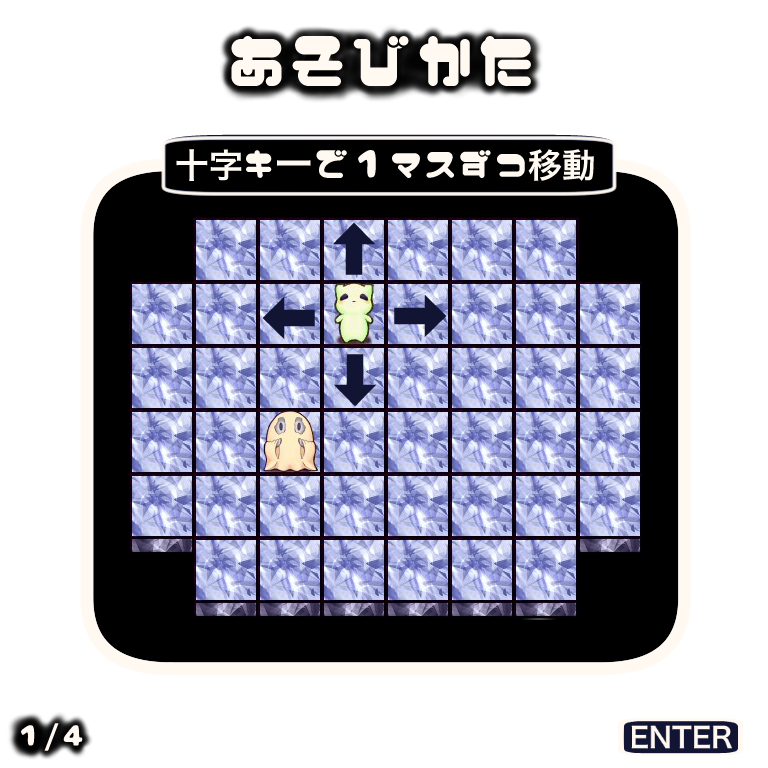
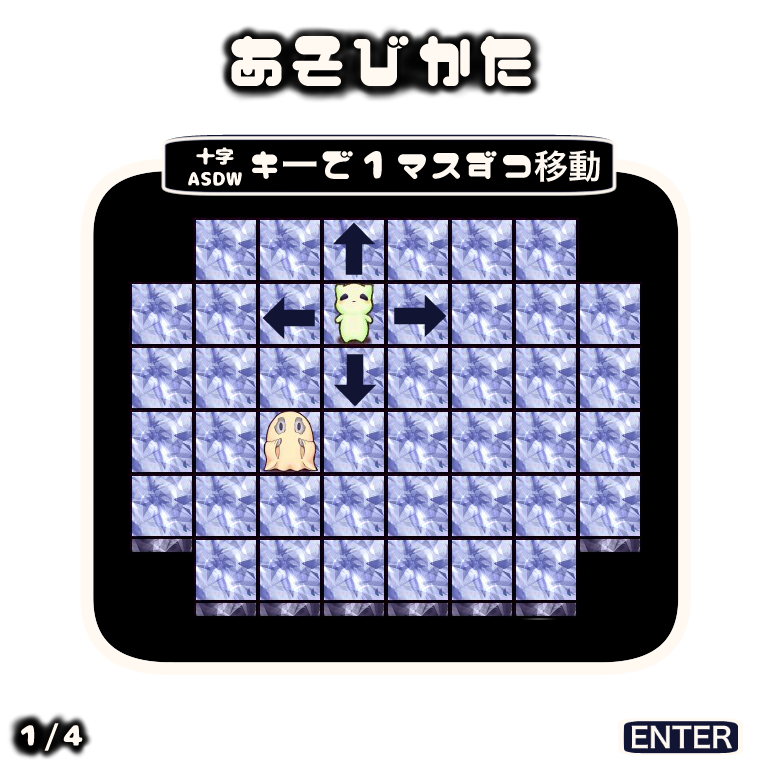
dir

Changed region(s): [[0.2188, 0.1875, 0.7812, 0.25]]

diff --git a/TemplateGame/DirUI.cs b/TemplateGame/DirUI.cs
@@ -12,72 +12,125 @@ namespace LoopGame
 
         Texture2D dirUi;
         Vector2[] pos;
-        float[] rot;
+        int[] rot;
         const int SIZE = 192;
-        const int C_SIZE = SIZE / 2;
 
         enum KeyNum
         {
             Up = 1, Right, Down, Left,
         }
 
+
         public void Init(int all)
         {
             pos = new Vector2[all];
-            rot = new float[all];
+            rot = new int[all];
         }
         public void Load(ContentManager cm)
         {
             dirUi = cm.Load<Texture2D>("dir");
         }
 
-        public void DirChenge(int pdn, List<int> Edn, bool dirF)
+        //プレイヤー
+        public void DirChecgeP(bool dirF, int pdn)
         {
-            int dn = 0;
-            for (int i = 0; i < rot.Length; i++)
+            if (!dirF) //オフの時
             {
-                if (!dirF & i == 0) //オフの時
-                {
-                    rot[i]= MathHelper.ToRadians(0);
-                    continue;
-                }
-
-                if (i == 0) dn = pdn; //オンの時
-                else dn = Edn[i - 1];
-
-                switch (dn)
+                rot[0] = 0; //プレイヤー
+            }
+            else//オンの時
+            {
+                switch (pdn)
                 {
                     case (int)KeyNum.Up:
-                        rot[i] = MathHelper.ToRadians(0);
+                        rot[0] = 0;
                         break;
                     case (int)KeyNum.Right:
-                        rot[i] = MathHelper.ToRadians(90);
+                        rot[0] = 1;
                         break;
                     case (int)KeyNum.Down:
-                        rot[i] = MathHelper.ToRadians(180);
+                        rot[0] = 2;
                         break;
                     case (int)KeyNum.Left:
-                        rot[i] = MathHelper.ToRadians(270);
+                        rot[0] = 3;
                         break;
+                }
+            }
+        }
+
+        //エネミー
+        public void DirChengeE(int pdn, List<int> Edn, bool dirF, int dirMin, int dirMax, int allDirCount)
+        {
+            for (int i = 1; i < rot.Length; i++)
+            {
+                int edn = Edn[i - 1];
+
+                if (!dirF) //オフの時
+                {
+
+                    //if (i == 0)
+                    //{
+                    //    rot[i] = 0; //プレイヤー
+                    //    continue;
+                    //}
+
+                    switch (pdn)
+                    {
+
+                        case (int)KeyNum.Up:
+                            rot[i] = edn + 0;
+                            break;
+                        case (int)KeyNum.Right:
+                            rot[i] = edn + 3;
+                            break;
+                        case (int)KeyNum.Down:
+                            rot[i] = edn + 2;
+                            break;
+                        case (int)KeyNum.Left:
+                            rot[i] = edn + 1;
+                            break;
+                    }
+
+                    if (rot[i] > dirMax) rot[i] -= allDirCount;
+                    rot[i]--;
+                }
+                else//オンの時
+                {
+                    switch (edn)
+                    {
+                        case (int)KeyNum.Up:
+                            rot[i] = 0;
+                            break;
+                        case (int)KeyNum.Right:
+                            rot[i] = 1;
+                            break;
+                        case (int)KeyNum.Down:
+                            rot[i] = 2;
+                            break;
+                        case (int)KeyNum.Left:
+                            rot[i] = 3;
+                            break;
+                    }
                 }
             }
         }
         public void CenterPos(Vector2 pp, Vector2[] ep, int s)
         {
-            pos[0] = new Vector2(pp.X + s / 2, pp.Y + s / 2);
+            pos[0] = new Vector2(pp.X - s, pp.Y - s);
             for (int i = 1; i < pos.Length; i++)
             {
-                pos[i] = new Vector2(ep[i - 1].X + s / 2, ep[i - 1].Y + s / 2);
+                pos[i] = new Vector2(ep[i - 1].X - s, ep[i - 1].Y - s);
             }
         }
 
-        public void Draw(SpriteBatch sb, bool df)
+        public void Draw(SpriteBatch sb, bool df,bool[] enemyDead)
         {
             if (!df) return;
-            sb.Draw(dirUi, pos[0], null, Color.White, rot[0], new Vector2(C_SIZE, C_SIZE), Vector2.One, SpriteEffects.None, 0);
-            for (int i = 1; i < pos.Length; i++)
+            sb.Draw(dirUi, pos[0], new Rectangle(SIZE * rot[0], 0, SIZE, SIZE), Color.White);
+            for (int i = 1; i < pos.Length; i++) //敵
             {
-                sb.Draw(dirUi, pos[i], null, Color.White * 0.5f, rot[i], new Vector2(C_SIZE, C_SIZE), Vector2.One, SpriteEffects.None, 0);
+                if(!enemyDead[i-1])
+                sb.Draw(dirUi, pos[i], new Rectangle(SIZE * rot[i], 0, SIZE, SIZE), Color.White * 0.5f);
             }
         }
     }

diff --git a/TemplateGame/Game1.cs b/TemplateGame/Game1.cs
@@ -83,6 +83,8 @@ namespace LoopGame
         {
             stage = (int)Stage.stage1;
             scene = Scene.TITLE;
+            titleAndEnd.Init();
+            edA.Ini(SIZE);
         }
         //どこからの初期化でも変わらない
         void StageInitBase()
@@ -92,7 +94,6 @@ namespace LoopGame
             enemy.Init(map.NowEnemySheet, map.SheetSize, EnemyDeadSE);
             start.Ini(player.Pos.X, player.Pos.Y, map.StageCount, (int)stage);
             clear.Ini();
-            edA.Ini(SIZE);
             help.Init(music.Se[(int)SE.ENTER]);
             wait.Init();
             score.Init((int)stage);
@@ -108,6 +109,7 @@ namespace LoopGame
             StageInitBase();
             start.PosChange(SIZE);
             scene = Scene.PLAY_START;
+            dirUI.DirChengeE(player.DirNum, enemy.DirNum, help.KeyFix, map.DirMin, map.DirMax, map.AllDirCount);
             if (stage == map.StageCount - 1)
                 music.SongStopper();
         }
@@ -253,18 +255,18 @@ namespace LoopGame
                     if (help.NowHelpState == 0)
                         player.Move(map.NowPlayerSheet, map.SheetSize, map.AllDirCount, help.KeyFix);
                     if (player.MoveF) music.SePlay((int)SE.WALK);
-
+                    dirUI.DirChecgeP(help.KeyFix, player.DirNum);
                 }
                 if (wait.WaitCount(player.MoveF)) //敵のターン
                 {
                     enemy.Move(player.BeforeDir, player.DirNum, map.SheetSize);
+                    dirUI.DirChengeE(player.DirNum, enemy.DirNum, help.KeyFix, map.DirMin, map.DirMax, map.AllDirCount);
                     music.SePlay((int)SE.ENEMYWALK);
                     score.Pluse();
                 }
             }
             //方向表示
             dirUI.CenterPos(player.Pos, enemy.Pos, player.Size);
-            dirUI.DirChenge(player.DirNum, enemy.DirNum, help.KeyFix);
 
             if (enemy.DeadAction(map.NowMapSheet, map.NowPlayerSheet)) //敵が全部死んだら
             {
@@ -288,7 +290,7 @@ namespace LoopGame
         //ヘルプ
         void HelpInput()
         {
-            help.HelpOpen(GoTitle, HelpFlagChenge);
+            help.HelpOpen(GoTitle, HelpFlagChenge,EnemyUIChecnge);
             if (tu.OpenHelopTuto) HelpTuto();
         }
         void HelpFlagChenge()
@@ -304,6 +306,10 @@ namespace LoopGame
                 tu.OpenHelopTuto = false;
                 help.TotuEnd();
             }
+        }
+        void EnemyUIChecnge()
+        {
+            dirUI.DirChengeE(player.DirNum, enemy.DirNum, help.KeyFix, map.DirMin, map.DirMax, map.AllDirCount);
         }
         void GoTitle()
         {
@@ -406,18 +412,18 @@ namespace LoopGame
         }
         void DrawStart()
         {
-            titleAndEnd.StartDrow(spriteBatch,edA.Sc);
+            titleAndEnd.StartDrow(spriteBatch, edA.Sc);
         }
         void DrawTutorial()
         {
-            titleAndEnd.BackGround(spriteBatch,edA.Sc);
+            titleAndEnd.BackGround(spriteBatch, edA.Sc);
             tu.TutoDraw(spriteBatch);
         }
 
         //ゲーム画面共用
         void DraawPlayBase()
         {
-            titleAndEnd.BackGround(spriteBatch,edA.Sc);
+            titleAndEnd.BackGround(spriteBatch, edA.Sc);
             map.Draw(spriteBatch, SIZE, start.Sc);
             enemy.Draw(spriteBatch, SIZE, start.Sc);
         }
@@ -431,7 +437,7 @@ namespace LoopGame
             DraawPlayBase();
             score.Draw(spriteBatch);
             player.Draw(spriteBatch);
-            dirUI.Draw(spriteBatch, help.DirDraw);
+            dirUI.Draw(spriteBatch, help.DirDraw,enemy.Dead);
             clear.Draw(spriteBatch, SIZE, SIZE);
             help.Draw(spriteBatch);
             tu.HelpTutoDraw(spriteBatch);

diff --git a/TemplateGame/Map.cs b/TemplateGame/Map.cs
@@ -142,7 +142,7 @@ namespace LoopGame
              0, 0, 1, 1, 1, 1, 1, 1, 1, 1, 0, 0,
              0, 0, 4, 4, 4, 4, 4, 4, 4, 4, 0, 0,
         };
-        int[] mapSheetEnd = new int[SHEET_SIZE * SHEET_SIZE]; const int END_SHEET_COUNT=1;
+        int[] mapSheetEnd = new int[SHEET_SIZE * SHEET_SIZE]; const int END_SHEET_COUNT = 1;
 
         int[][] mapSheets; //マップを入れる
         int[] nowMapSheet; //現在のシート
@@ -402,9 +402,9 @@ namespace LoopGame
         int[] nowEnemySheets;
 
         //シート
-        public int[]  NowMapSheet => nowMapSheet;
-        public int[]  NowPlayerSheet => nowPlayerSheets;
-        public int[]  NowEnemySheet => nowEnemySheets;
+        public int[] NowMapSheet => nowMapSheet;
+        public int[] NowPlayerSheet => nowPlayerSheets;
+        public int[] NowEnemySheet => nowEnemySheets;
         public int SheetSize => SHEET_SIZE;
 
         //番号
@@ -418,10 +418,10 @@ namespace LoopGame
         { //ステージを格納 順番注意 特にマップ
             mapSheets = new int[][] { mapSheet01, mapSheet02, mapSheet03, mapSheet04, mapSheet05, mapSheet06, mapSheet07, mapSheet08, mapSheetEnd };
             playerSheets = new int[][] { playerSheet01, playerSheet02, playerSheet03, playerSheet04, playerSheet05, playerSheet06, playerSheet07, playerSheet08 };
-            enemySheets = new int[][] { enemySheet01, enemySheet02, enemySheet03, enemySheet04, enemySheet05, enemySheet06, enemySheet07, enemySheet08};
-            for (int i = 0; i < SheetSize*SheetSize; i++) mapSheetEnd[i] = (int)ColorNum.noColor;
+            enemySheets = new int[][] { enemySheet01, enemySheet02, enemySheet03, enemySheet04, enemySheet05, enemySheet06, enemySheet07, enemySheet08 };
+            for (int i = 0; i < SheetSize * SheetSize; i++) mapSheetEnd[i] = (int)ColorNum.noColor;
             stageCount = mapSheets.Length - END_SHEET_COUNT; //エンディング用を引く
-            //stageCount = 2; //ショートカット
+            //stageCount = 1; //ショートカット
         }
         public void Load(ContentManager content)
         {
@@ -433,7 +433,7 @@ namespace LoopGame
             co = (int)ColorNum.color100;
             index = 0;
 
-            nowMapSheet= mapSheets[stageNum];
+            nowMapSheet = mapSheets[stageNum];
             nowPlayerSheets = playerSheets[stageNum];
             nowEnemySheets = enemySheets[stageNum];
         }

diff --git a/TemplateGame/Help.cs b/TemplateGame/Help.cs
@@ -29,15 +29,15 @@ namespace LoopGame
         public int NowHelpState => (int)nowHelpState;
 
         Input input = new Input();
-        enum KeysNum { DC, KC,  H, U, Y, J, N };
+        enum KeysNum { DC, KC, H, U, Y, J, N };
         Keys[] key;
 
         //キー設定
         const int BUTTON = 2;
         Texture2D[] button = new Texture2D[BUTTON];
         Vector2[] buttonPos = new Vector2[BUTTON];
-        readonly Vector2[] buttonPosL = new Vector2[] { new Vector2(135, 280), new Vector2(135, 550) };
-        readonly Vector2[] buttonPosR = new Vector2[] { new Vector2(450, 280), new Vector2(450, 550) };
+        readonly Vector2[] buttonPosL = new Vector2[] { new Vector2(163, 291), new Vector2(163, 547) };
+        readonly Vector2[] buttonPosR = new Vector2[] { new Vector2(419, 291), new Vector2(420, 547) };
 
         bool[] buttonF = new bool[2];
         public bool DirDraw => buttonF[(int)KeysNum.DC];
@@ -48,7 +48,7 @@ namespace LoopGame
             helpPos = new Vector2(97, 97);
             keyConfPos = new Vector2(97, 97);
             keyPos = new Vector2(590, 20);
-            key = new Keys[] { Keys.D1, Keys.D2, Keys.H, Keys.U, Keys.Y, Keys.J, Keys.N };
+            key = new Keys[] { Keys.I, Keys.K, Keys.H, Keys.U, Keys.Y, Keys.J, Keys.N };
             input.Init(key);
 
             for (int i = 0; i < BUTTON; i++)
@@ -71,7 +71,7 @@ namespace LoopGame
                 button[i] = content.Load<Texture2D>("button");
         }
 
-        public void HelpOpen(Action goTitle, Action helpTuto)
+        public void HelpOpen(Action goTitle, Action helpTuto, Action enemyUIChecnge)
         {
             switch (nowHelpState)
             {
@@ -114,6 +114,7 @@ namespace LoopGame
                     break;
                 case HelpState.KEY:
                     KeyConf();
+                    enemyUIChecnge(); //プレイヤーが動かないと変わらないので強制呼び出し
                     break;
                 default:
                     break;

diff --git a/TemplateGame/TitleAndEnd.cs b/TemplateGame/TitleAndEnd.cs
@@ -20,7 +20,7 @@ namespace LoopGame
         const float A_MIN = -0.006f;
         const float POS_PULSE = 0.1f;
 
-        public TitleAndEnd()
+        public void Init()
         {
             pos[0] = new Vector2(0, 0);
             pos[1] = new Vector2(0, 576);

diff --git a/TemplateGame/Enemy.cs b/TemplateGame/Enemy.cs
@@ -14,6 +14,7 @@ namespace LoopGame
         const int CHIP_SIZE = 64;
         public int Size => CHIP_SIZE;
         bool[] dead;
+        public bool[] Dead => dead;
 
         //移動　向き
         ChipNum chipNum = new ChipNum();
